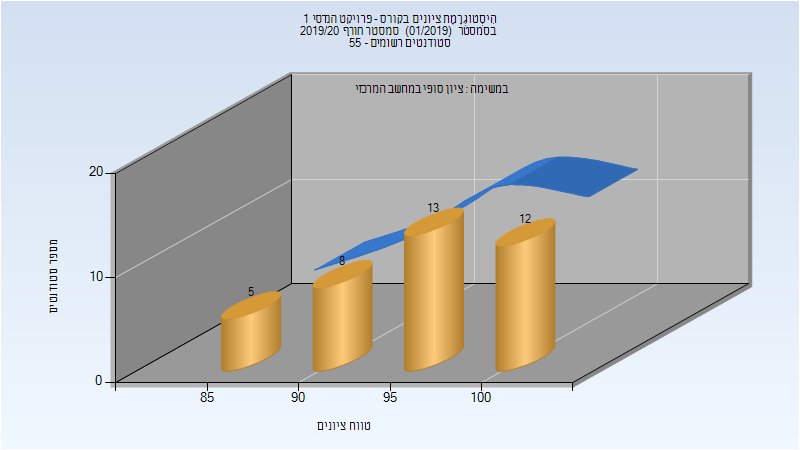
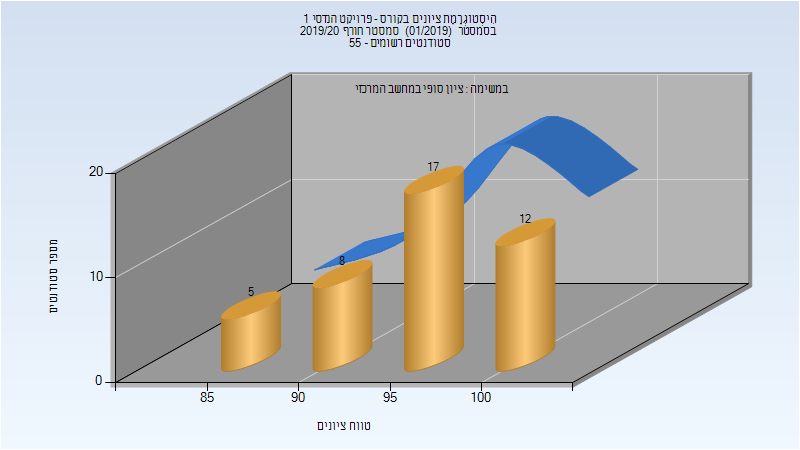
Deploy michael-maltsev/technion-histograms to github.com/michael-maltsev/technion-histograms.git:gh-pages

Changed region(s): [[0.4688, 0.2489, 0.8125, 0.56], [0.4375, 0.56, 0.4688, 0.5911]]

diff --git a/034379/index.html b/034379/index.html
@@ -63,13 +63,13 @@
 </thead>
 <tbody>
 <tr>
-<td>38</td>
-<td>38/0</td>
+<td>42</td>
+<td>42/0</td>
 <td>100</td>
 <td>87</td>
 <td>100</td>
-<td>95.368</td>
-<td>96.5</td>
+<td>95.571</td>
+<td>97</td>
 </tr>
 </tbody>
 </table>

diff --git a/034379/README.md b/034379/README.md
@@ -18,5 +18,5 @@
 
 | סטודנטים | עברו/נכשלו | אחוז עוברים | ציון מינימלי | ציון מקסימלי | ממוצע | חציון |
 | ---- | ---- | ---- | ---- | ---- | ---- | ---- |
-| 38 | 38/0 | 100 | 87 | 100 | 95.368 | 96.5 |
+| 42 | 42/0 | 100 | 87 | 100 | 95.571 | 97 |
 
